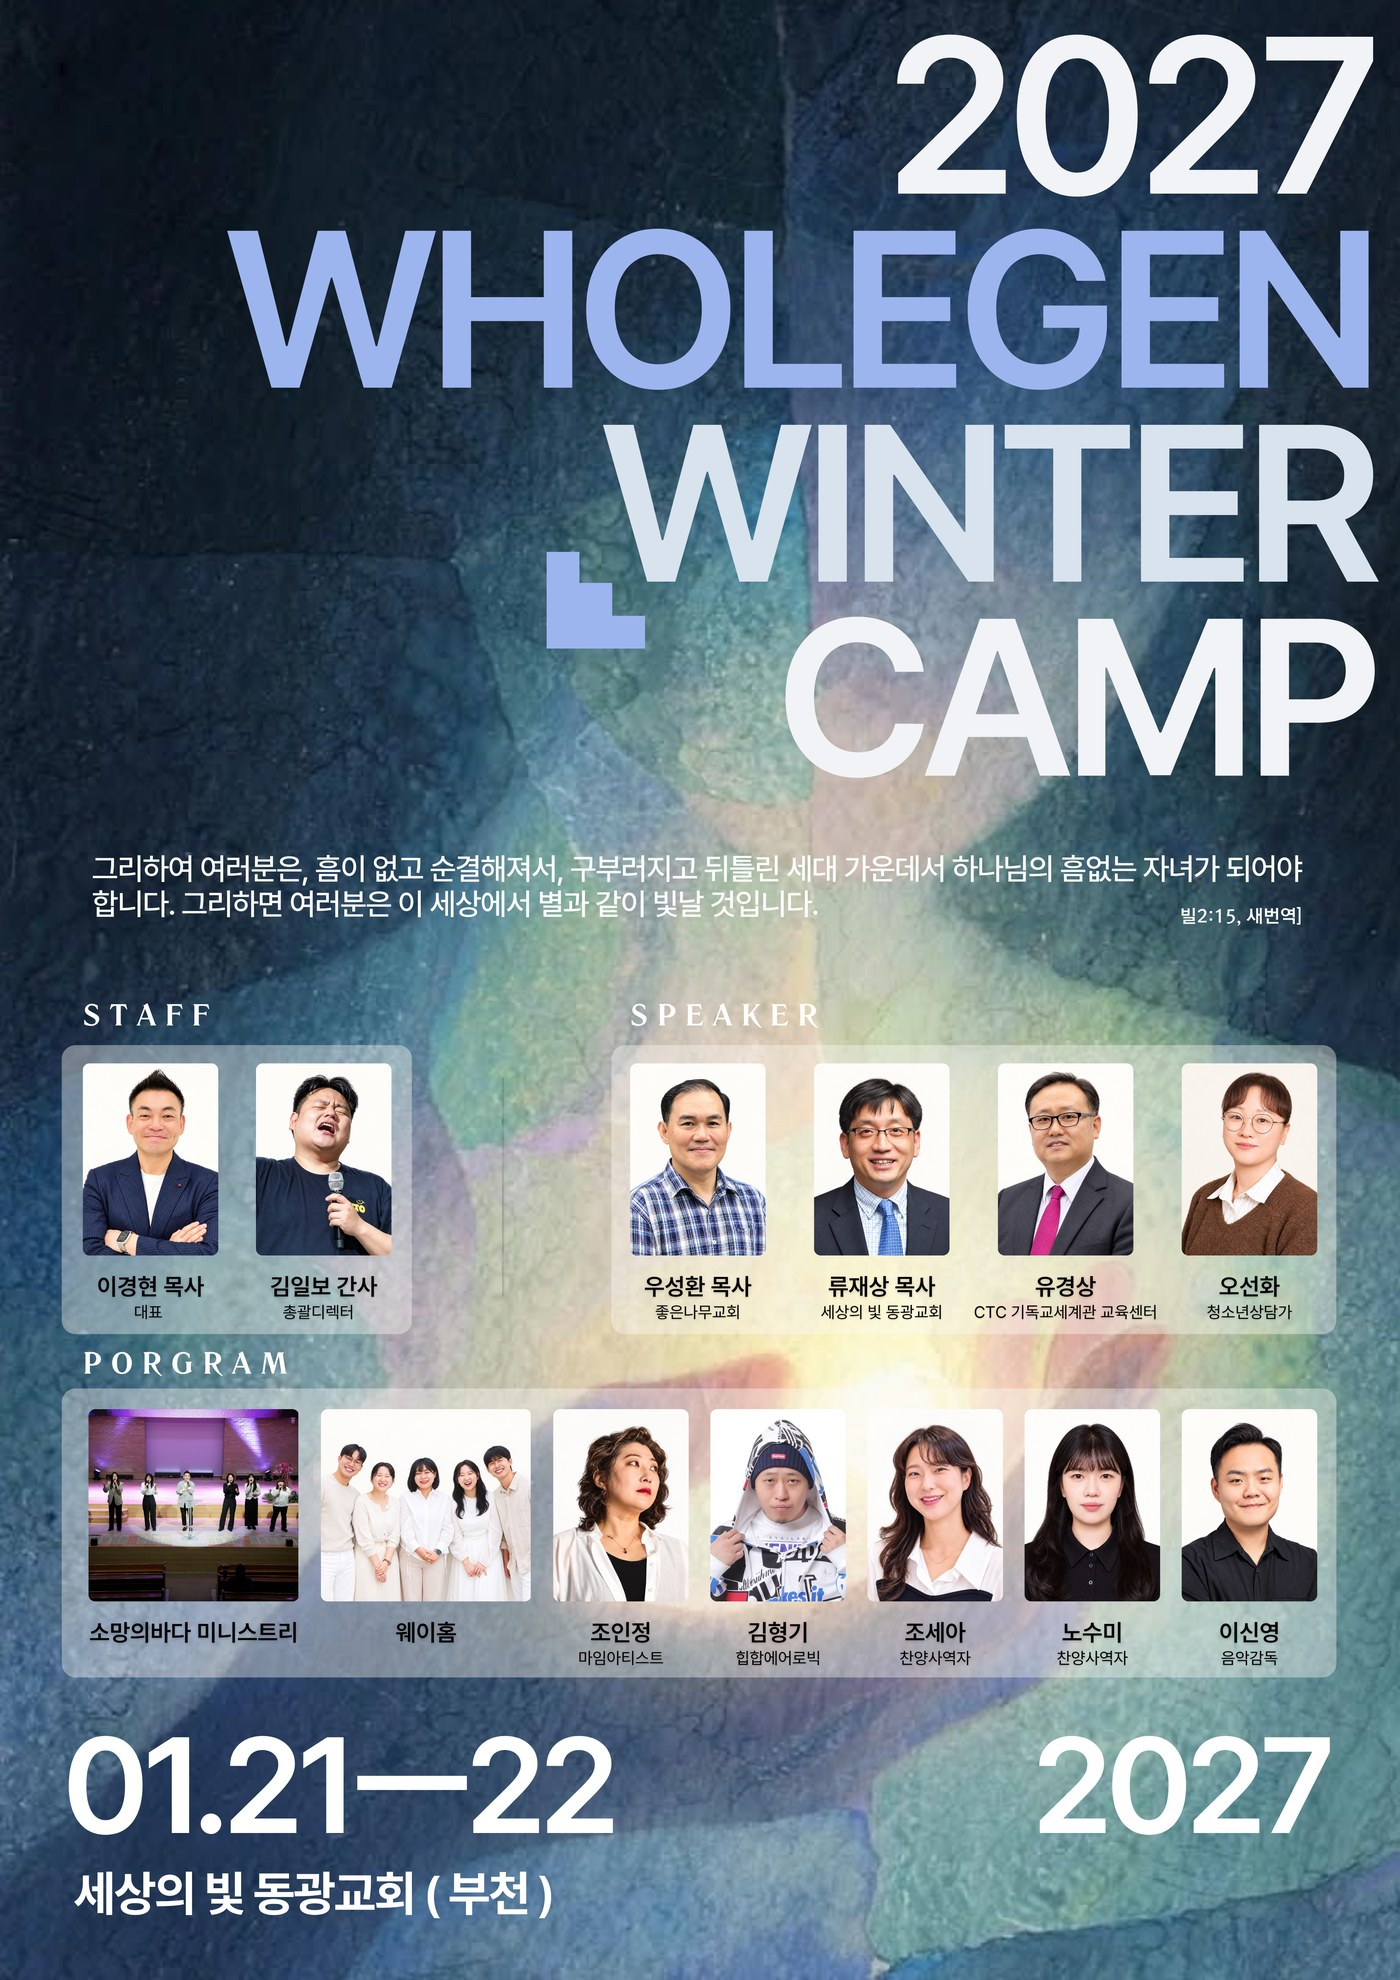
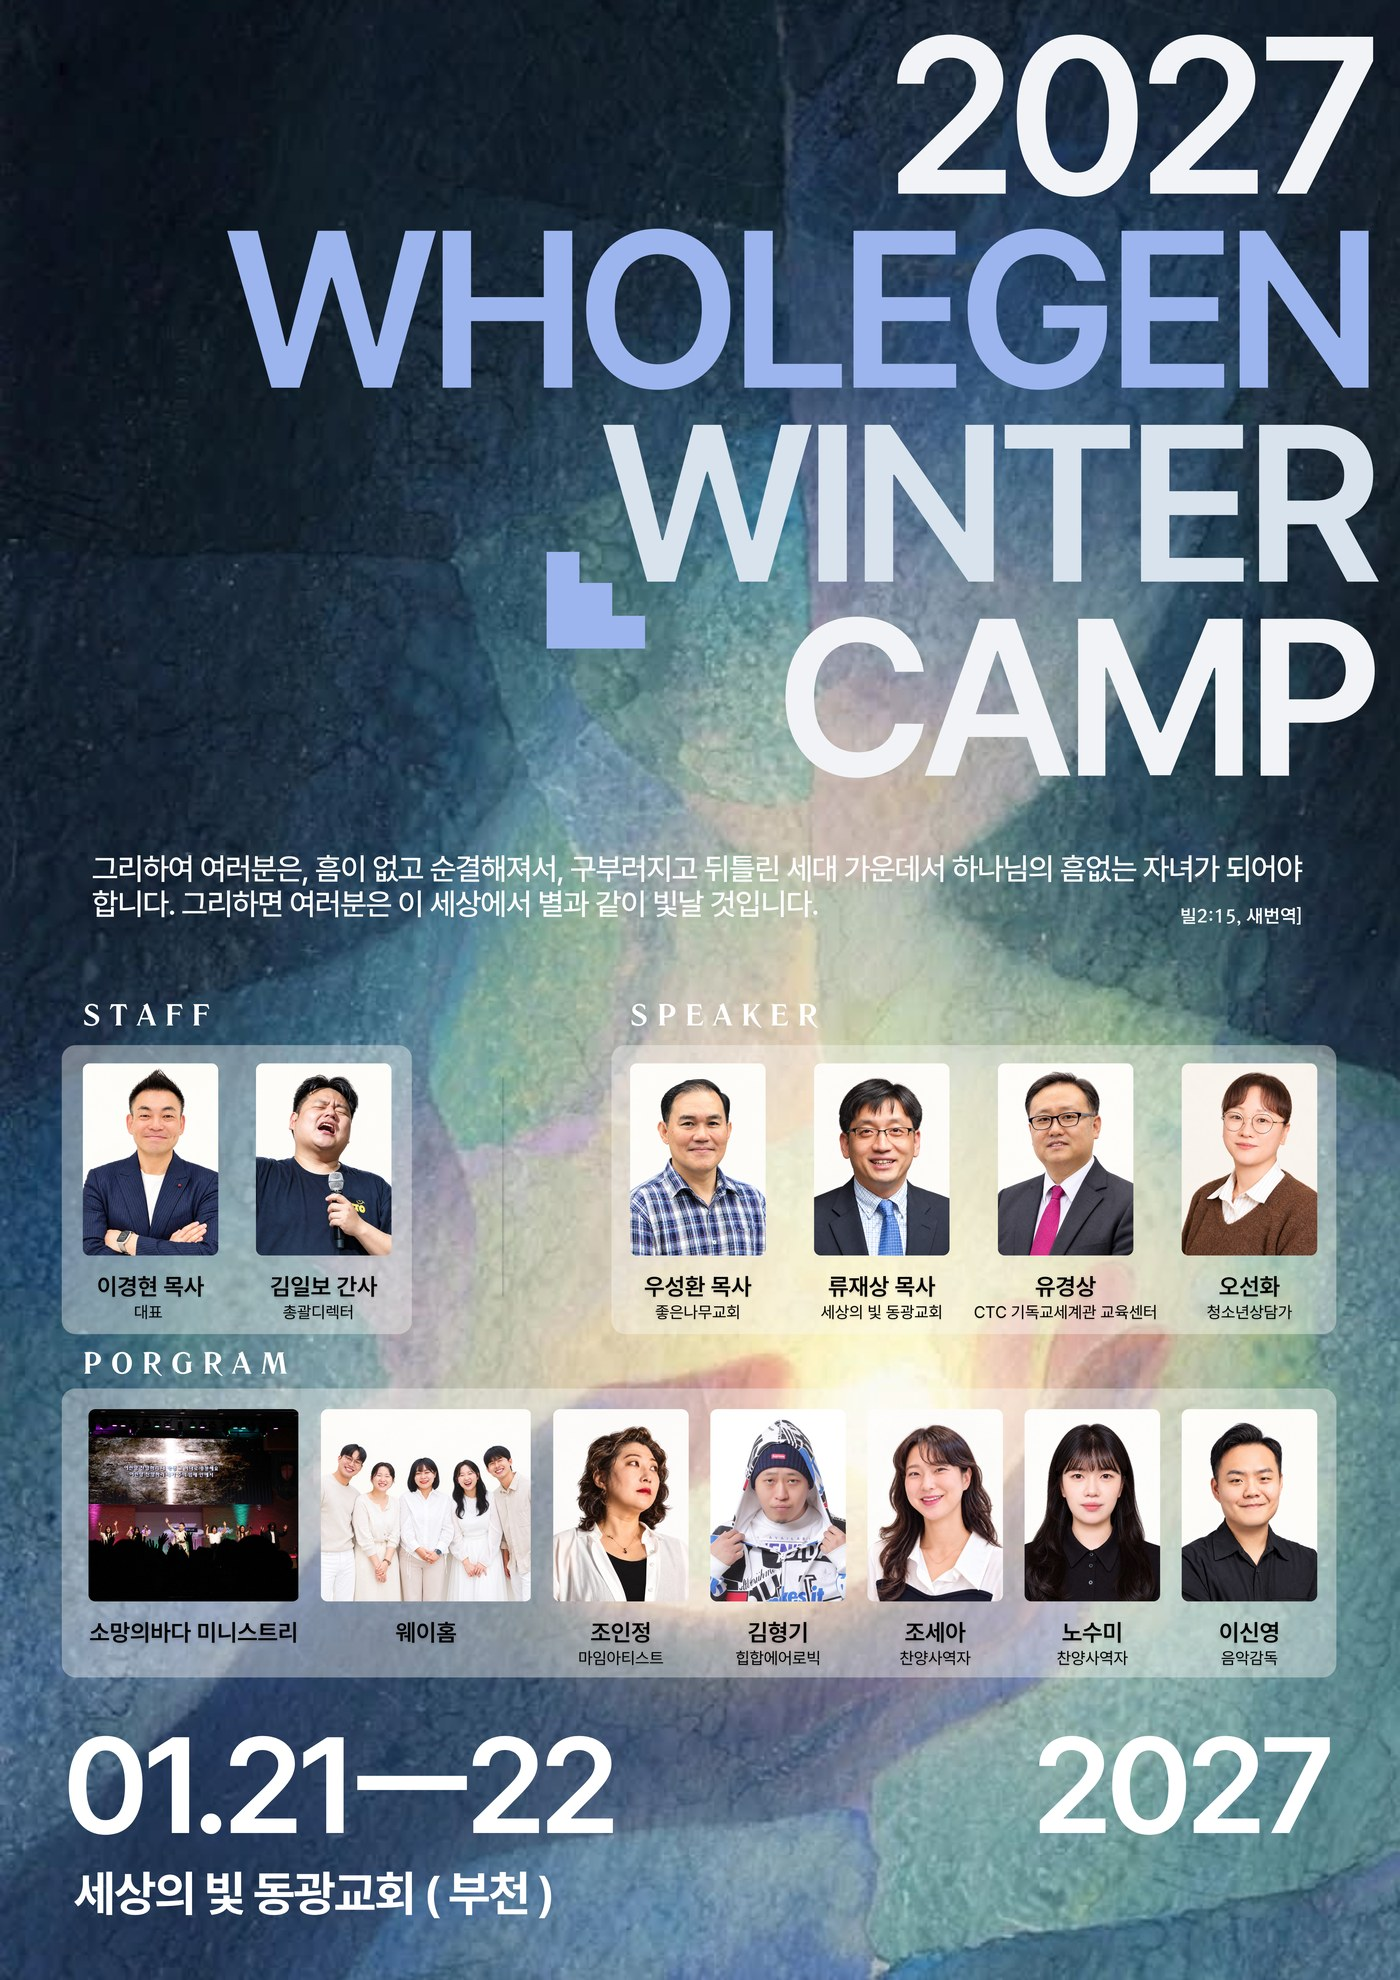
소개: 협력기관 로고, 함께하는 이들 사진 추가 / 지도위원 정리 / 포스터·소망의바다 사진 교체

Changed region(s): [[0.0614, 0.7086, 0.215, 0.8318]]

diff --git a/about.html b/about.html
@@ -743,7 +743,7 @@
   .advisor-list, .logo-grid{ margin-top: var(--head-gap); }
   .advisor-list{
     display:grid;
-    grid-template-columns: repeat(6, 1fr);
+    grid-template-columns: repeat(5, 1fr);
     gap:12px;
     list-style:none;
   }
@@ -781,7 +781,7 @@
   }
   .logo-grid{
     display:grid;
-    grid-template-columns: repeat(5, 1fr);
+    grid-template-columns: repeat(4, 1fr);
     gap:12px;
     list-style:none;
   }
@@ -794,16 +794,22 @@
     border-radius:16px;
     background: var(--surface);
     border:1px solid var(--line);
-    font-family:'JetBrains Mono', monospace;
-    font-size:12px;
-    letter-spacing:2px;
-    color: rgba(255,255,255,0.3);
+    font-size:18px;
+    font-weight:700;
+    text-align:center;
+    word-break:keep-all;
+    color:#fff;
   }
-  .logo-grid img{ max-width:100%; max-height:100%; object-fit:contain; filter: grayscale(1) brightness(1.6); opacity:.8; }
+  .logo-grid li.is-en{ font-family:'JetBrains Mono', monospace; font-size:15px; letter-spacing:1px; }
+  .logo-grid img{ max-width:80%; max-height:48px; object-fit:contain; }
+  .logo-grid img.logo-dg{ max-height:60px; max-width:88%; }
+  .logo-grid img.logo-guro{ max-height:44px; max-width:80%; }
+  .logo-grid img.logo-loind{ max-height:36px; }
+  .logo-grid li.logo-text{ font-size:22px; font-weight:800; letter-spacing:-0.02em; }
   @media (max-width:900px){
     .crew-grid > .crew-card{ flex-basis: calc((100% - 32px) / 3); }
     .advisor-list{ grid-template-columns: repeat(3, 1fr); }
-    .logo-grid{ grid-template-columns: repeat(3, 1fr); }
+    .logo-grid{ grid-template-columns: repeat(2, 1fr); }
   }
   @media (max-width:760px){
     .crew-grid{ margin-top: var(--head-gap-mobile); gap:10px; }
@@ -817,8 +823,9 @@
     .advisor-list{ gap:10px; grid-template-columns: repeat(2, 1fr); }
     .advisor-info{ padding:12px 14px 14px; }
     .church-list li{ padding:10px 16px; font-size:14px; }
-    .logo-grid{ grid-template-columns: repeat(3, 1fr); gap:8px; }
-    .logo-grid li{ height:64px; }
+    .logo-grid{ grid-template-columns:1fr; gap:8px; }
+    .logo-grid li{ height:64px; font-size:16px; }
+    .logo-grid li.is-en{ font-size:14px; }
   }
 
   .page-end{ height:200px; }
@@ -1050,9 +1057,9 @@
       <div class="crew-grid">
         <div class="crew-card"><img src="speakers/staff1.jpg" alt="이경현 목사" loading="lazy"><div class="crew-info"><p class="crew-name">이경현 목사</p><p class="crew-role">대표</p></div></div>
         <div class="crew-card"><img src="speakers/staff2.jpg" alt="김일보 간사" loading="lazy"><div class="crew-info"><p class="crew-name">김일보 간사</p><p class="crew-role">총괄디렉터</p></div></div>
-        <div class="crew-card is-empty"><svg viewBox="0 0 100 120" fill="#fff" aria-hidden="true"><circle cx="50" cy="40" r="24"/><path d="M8 118c2-32 20-52 42-52s40 20 42 52"/></svg><div class="crew-info"><p class="crew-name">이혜원</p></div></div>
+        <div class="crew-card"><img src="speakers/crew3.jpg" alt="이혜원" loading="lazy"><div class="crew-info"><p class="crew-name">이혜원</p></div></div>
         <div class="crew-card is-empty"><svg viewBox="0 0 100 120" fill="#fff" aria-hidden="true"><circle cx="50" cy="40" r="24"/><path d="M8 118c2-32 20-52 42-52s40 20 42 52"/></svg><div class="crew-info"><p class="crew-name">주찬미</p></div></div>
-        <div class="crew-card is-empty"><svg viewBox="0 0 100 120" fill="#fff" aria-hidden="true"><circle cx="50" cy="40" r="24"/><path d="M8 118c2-32 20-52 42-52s40 20 42 52"/></svg><div class="crew-info"><p class="crew-name">정대희</p></div></div>
+        <div class="crew-card"><img src="speakers/crew5.jpg" alt="정대희" loading="lazy"><div class="crew-info"><p class="crew-name">정대희</p></div></div>
       </div>
     </div>
   </div>
@@ -1067,7 +1074,6 @@
             <li><div class="advisor-photo"><img src="speakers/adv3.jpg" alt="김단일 목사" loading="lazy"></div><div class="advisor-info"><b>김단일 목사</b><span>컴앤씨교회</span></div></li>
             <li><div class="advisor-photo"><img src="speakers/adv4.jpg" alt="오현철 교수" loading="lazy"></div><div class="advisor-info"><b>오현철 교수</b><span>성결대학교</span></div></li>
             <li><div class="advisor-photo"><img src="speakers/adv5.jpg" alt="김건주 목사" loading="lazy"></div><div class="advisor-info"><b>김건주 목사</b><span>복음과 도시</span></div></li>
-            <li><div class="advisor-photo"><img src="speakers/wor2.jpg" alt="류재상 목사" loading="lazy"></div><div class="advisor-info"><b>류재상 목사</b><span>세상의 빛 동광교회</span></div></li>
           </ul>
     </div>
   </div>
@@ -1075,11 +1081,14 @@
   <!-- PARTNERS -->
   <div class="about-section reveal">
     <div class="about-inner">
-      <h2 class="section-title">협력사</h2>
-      <!-- TODO: 협력사 로고로 교체하세요 -->
+      <h2 class="section-title">협력기관</h2>
+      <!-- TODO: 협력기관 로고로 교체하세요 -->
       <ul class="logo-grid">
-            <li>LOGO</li><li>LOGO</li><li>LOGO</li><li>LOGO</li><li>LOGO</li>
-          </ul>
+        <li><img class="logo-dg" src="partners/donggwang.png" alt="세상의 빛 동광교회"></li>
+        <li><img class="logo-guro" src="partners/guro.png" alt="구로동교회"></li>
+        <li class="logo-text">소망의바다 미니스트리</li>
+        <li><img class="logo-loind" src="partners/loind.png" alt="LOIND CORPORATION"></li>
+      </ul>
     </div>
   </div>
 
